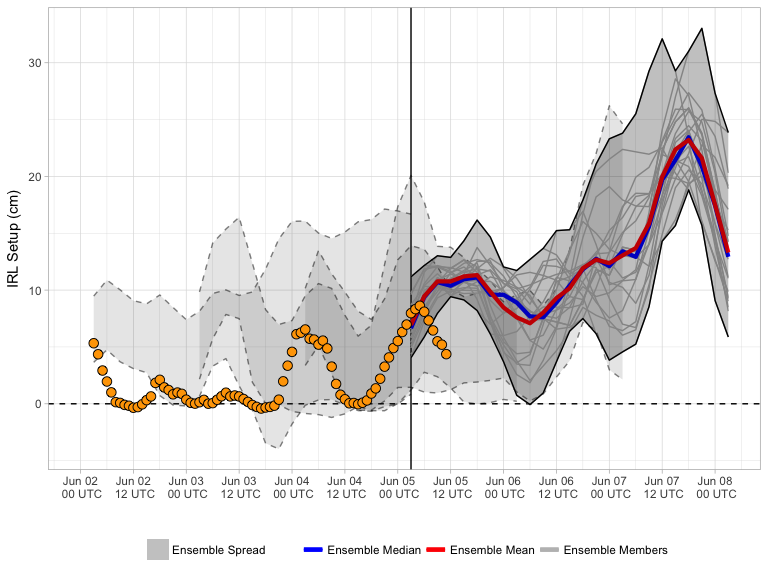
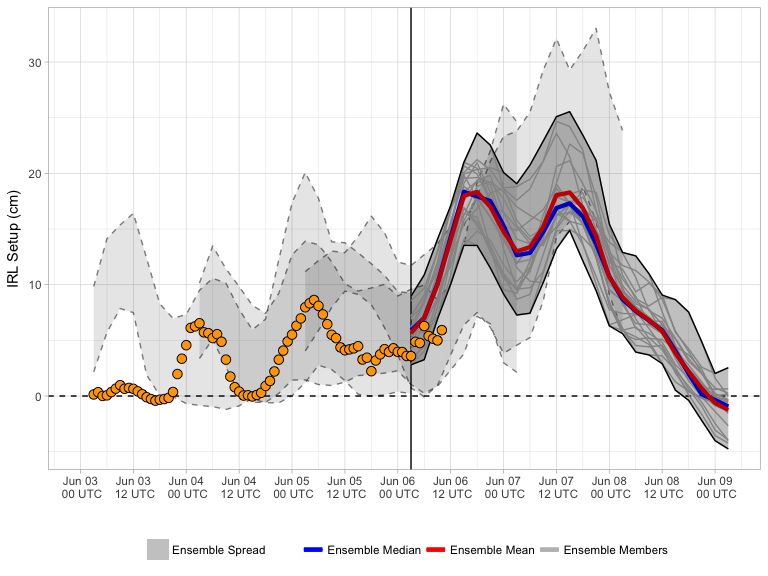
20170606 forecast update

Changed region(s): [[0.0312, 0.0312, 0.9688, 0.7812], [0.0312, 0.4688, 0.0625, 0.5312]]

diff --git a/docs/index.md b/docs/index.md
@@ -3,7 +3,7 @@ Current Forecast
 
 [![](img/raw_setup.png)](https://bhlmn.github.io/IRLSetup/img/raw_setup.png)
 
-> Forecast valid 2017-06-05 07:28:46.
+> Forecast valid 2017-06-06 06:35:02.
 
 Explanation
 -----------
@@ -15,7 +15,7 @@ water elevation in the northern IRL (near Titusville), and negative
 setup indicates the increase elevation in the southern IRL (near
 Sebastian). The x-axis displays the date and time in UTC. The solid
 vertical line represents the beginning of the most recent ensemble
-forecast (currently 2017-06-04 18:00:00). For this most recent forecast,
+forecast (currently 2017-06-05 18:00:00). For this most recent forecast,
 the ensemble spread (grey shading) is bound by solid black lines, with
 individual members represented by faint grey lines. The ensemble mean
 and median for this are represented by the red and blue curves,
